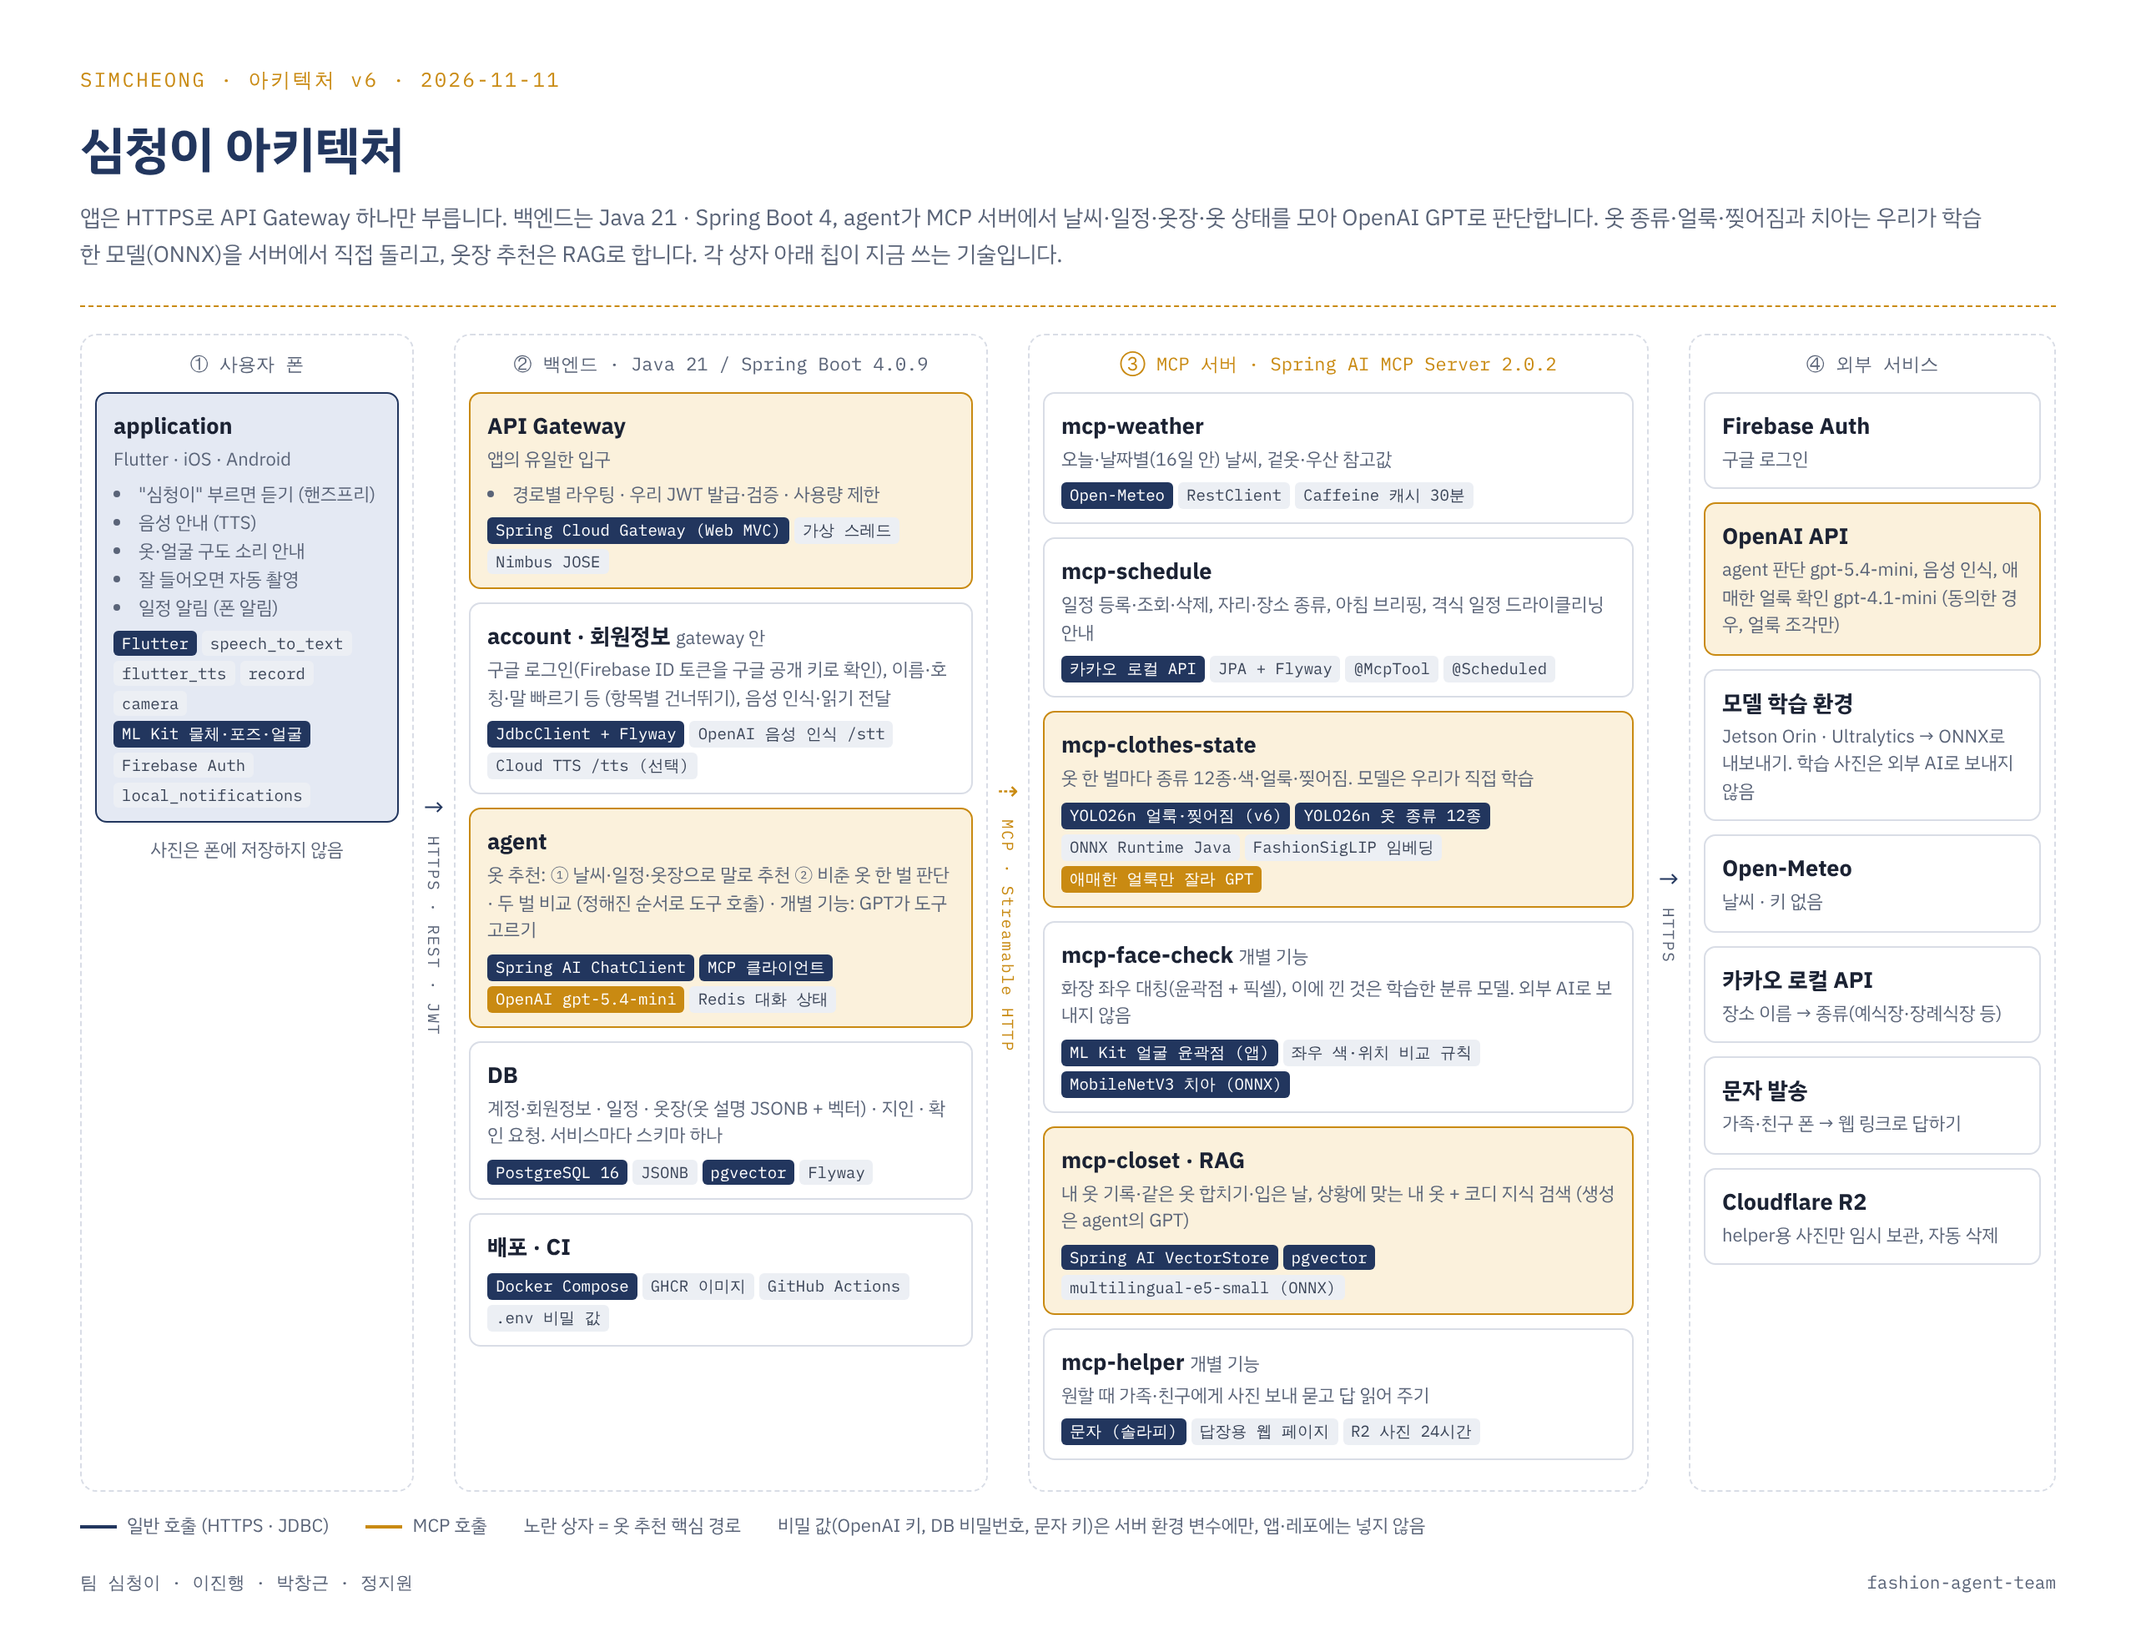
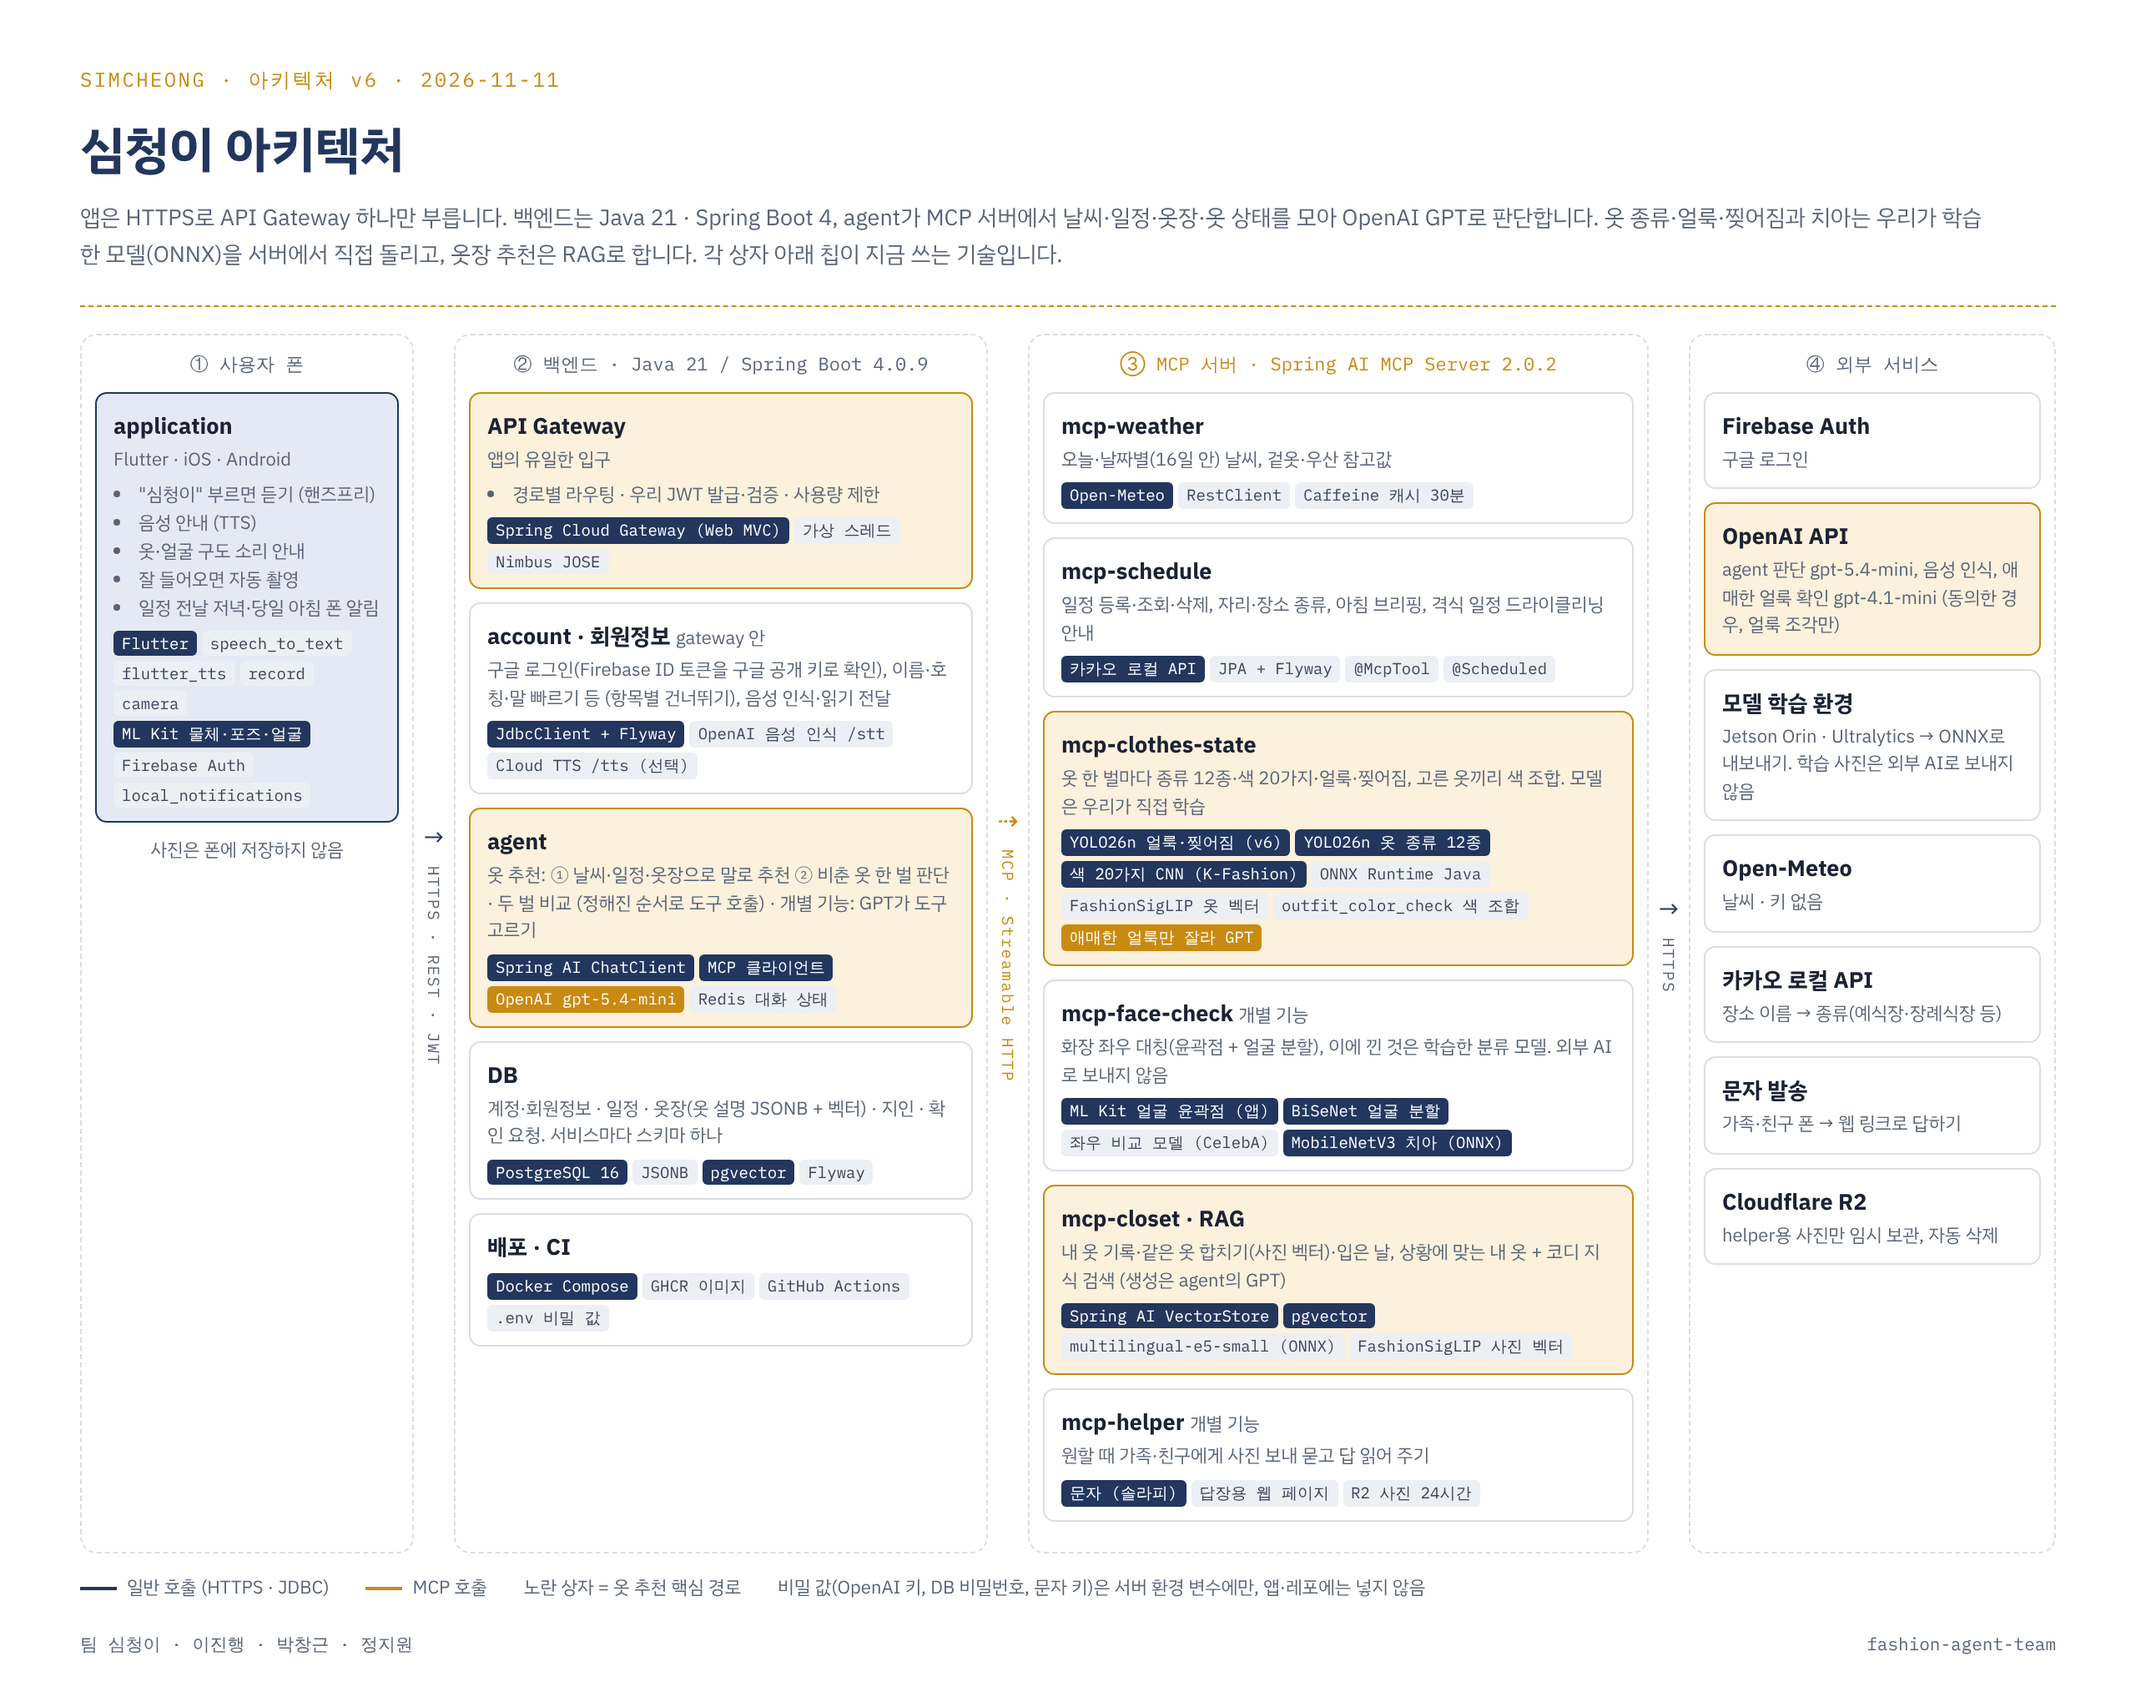
docs: 오늘 머지 반영, ERD 추가
색 모델·색 조합, 옷 사진 벡터, 얼굴 분할·좌우 비교 모델, 일정 폰 알림 반영, 테스트 수 다시 셈, ERD 그림 추가

Claude-Session: https://claude.ai/code/session_01AaHUvdPk9ZGhWgnso4sQo4

diff --git a/profile/README.md b/profile/README.md
@@ -25,12 +25,14 @@
 - 일정: 말로 넣은 일정마다 **자리 종류(면접·결혼식·운동 등)와 장소 종류**를 붙여 돌려줘요 (`schedule_list`). 장소는 카카오 로컬로 찾아요
 - 격식 있는 일정은 등록할 때와 3일 전 아침에 **드라이클리닝**을 미리 챙겨 줘요
 - 앱을 열면 오늘 일정과 3일 안의 중요한 일정을 먼저 알려 줘요 (`schedule_briefing`)
+- 일정 전날 저녁 8시에는 미리 옷을 골라 두라고, 당일 아침에는 다시 폰 알림을 띄워요
 
 ### 2. 카메라로 옷 확인
 
 꺼낸 옷을 비추면 사진마다 `clothes_inspect`가 **옷 한 벌마다 종류·색·얼룩·찢어짐**을 찾고, agent가 오늘 날씨와 자리에 맞는지 판단해요.
 
-- 옷 종류 12종과 얼룩·찢어짐은 **우리가 직접 학습한 YOLO 모델**(ONNX)로 서버에서 봐요
+- 옷 종류 12종과 얼룩·찢어짐은 **우리가 직접 학습한 YOLO 모델**, 옷 색 20가지는 K-Fashion으로 학습한 **작은 CNN**(ONNX)으로 서버에서 봐요
+- 고른 옷끼리 색이 어울리는지는 색 이론 규칙으로 따로 판단해요 (`outfit_color_check`)
 - 얼룩이 애매할 때만 (사용자가 동의한 경우) **얼룩 부분만 잘라** GPT에 한 번 더 물어봐요
 - 코트인지 재킷인지 애매하면 틀린 이름 대신 "겉옷"이라고 말해요
 - 두 벌을 나란히 비추면 "왼쪽 흰 셔츠가 더 나아요"처럼 비교해 줘요
@@ -40,6 +42,7 @@
 셀카로 **화장이 좌우 고르게 되었는지**(`face_makeup_check`), **이 사이에 뭐가 끼지 않았는지**(`teeth_check`) 확인해요.
 
 - 앱이 ML Kit로 얼굴을 실시간으로 잡아 구도를 안내하고, 멈춘 순간 여러 장을 보내 중간값으로 판단해요
+- 서버가 얼굴 분할 모델(BiSeNet ResNet34)로 눈썹·입술·볼 칸을 나누고, 눈썹 길이·두께와 입술 너비는 공개 얼굴 데이터(CelebA)로 학습한 **좌우 비교 모델**로 판단해요
 - 얼굴·치아 사진은 **GPT 같은 외부 AI로 보내지 않고** 서버의 자체 모델로만 봐요
 
 ### 4. 가족·친구에게 물어보기
@@ -48,7 +51,10 @@
 
 ### 5. 내 옷장 (RAG)
 
-확인한 옷과 입은 날을 기록하고(`closet_save`, `closet_wear`), 다음 추천 때 상황에 맞는 내 옷을 찾아요(`closet_search`). "지난번 면접 때 뭐 입었지?"도 답해요(`closet_outfits`).
+확인한 옷과 입은 날을 기록하고(`closet_save`, `closet_wear`), 다음 추천 때 상황에 맞는 내 옷을 찾아요(`closet_search`). "지난번 면접 때 뭐 입었지?"(`closet_outfits`), "내 옷장에 뭐 있어?"(`closet_list`)에도 답해요.
+
+- 같은 옷인지는 `clothes_inspect`가 준 **옷 사진 벡터**(FashionSigLIP 768차원)로 판단해 한 벌로 합쳐요
+- 상황 문장(글 임베딩, multilingual-e5-small)과 영어 검색어(사진 벡터)로 내 옷과 코디 지식을 함께 찾고, 추천 문장은 agent의 GPT가 만들어요
 
 ---
 
@@ -60,7 +66,18 @@
 - 옷 추천은 정해진 순서(코드)로 도구를 부르고, GPT가 도구를 고르는 건 날씨 묻기·일정 등록·얼굴 확인·가족에게 묻기 같은 개별 기능뿐이에요
 - 서비스 사이 약속은 앱 레포의 [OpenAPI](https://github.com/fashion-agent-team/fashion-agent/blob/develop/docs/contracts/openapi.yaml)와 [MCP 도구 입출력](https://github.com/fashion-agent-team/fashion-agent/blob/develop/docs/contracts/mcp-tools.md) 하나로 맞춰요
 
-## 🗂 레포지토리
+## 🗂 ERD
+
+> 각 서비스 레포의 Flyway 마이그레이션(2026-11-11 `develop`) 그대로예요. 스키마 4개, 표 10개.
+
+<p align="center"><img src="https://raw.githubusercontent.com/fashion-agent-team/.github/main/profile/images/erd.png" width="100%" alt="심청이 ERD: account, schedule, helper, closet 스키마"/></p>
+
+- **서비스마다 스키마 하나**: account(gateway) · schedule · closet · helper. 스키마끼리는 FK 없이 `user_id`(= JWT sub) 값만 같이 써요
+- **사진은 어느 표에도 없어요.** 옷은 설명(JSONB)과 벡터만 남기고, 가족에게 보낸 사진은 R2 키만 24시간 들고 있어요
+- 남의 옷에 내 입은 날이 붙지 않게 `wears`는 (옷, 주인)을 함께 참조해요
+- 옷 벡터는 한 사람의 옷(100벌 안팎)만 정확한 거리로 훑고, 공용 코디 지식(`style_docs`)만 HNSW 인덱스를 써요
+
+## 📦 레포지토리
 
 | 레포 | 역할 | 주요 기술 |
 | --- | --- | --- |
@@ -69,9 +86,9 @@
 | [fashion-agent-agent](https://github.com/fashion-agent-team/fashion-agent-agent) | 대화와 옷 추천을 이끄는 두뇌 | Spring AI(ChatClient + MCP 클라이언트), OpenAI GPT, Redis |
 | [mcp-weather](https://github.com/fashion-agent-team/mcp-weather) | 오늘·날짜별 날씨 | Spring AI MCP Server, Open-Meteo, Caffeine 캐시 |
 | [mcp-schedule](https://github.com/fashion-agent-team/mcp-schedule) | 일정, 자리·장소 종류, 드라이클리닝 안내, 아침 브리핑 | Spring AI MCP Server(`@McpTool`), Spring Data JPA + Flyway, 카카오 로컬 API |
-| [mcp-clothes-state](https://github.com/fashion-agent-team/mcp-clothes-state) | 옷 종류·색·얼룩·찢어짐 | 직접 학습한 YOLO26n, ONNX Runtime, (선택) GPT 얼룩 확인 |
-| [mcp-face-check](https://github.com/fashion-agent-team/mcp-face-check) | 화장 대칭, 치아 확인 | ML Kit 윤곽점, MobileNetV3 분류 모델(ONNX) |
-| [mcp-closet](https://github.com/fashion-agent-team/mcp-closet) | 내 옷장 기록과 검색(RAG) | Spring AI VectorStore, pgvector, multilingual-e5-small |
+| [mcp-clothes-state](https://github.com/fashion-agent-team/mcp-clothes-state) | 옷 종류·색·얼룩·찢어짐, 색 조합 | 직접 학습한 YOLO26n·색 CNN, ONNX Runtime, FashionSigLIP 옷 벡터, (선택) GPT 얼룩 확인 |
+| [mcp-face-check](https://github.com/fashion-agent-team/mcp-face-check) | 화장 대칭, 치아 확인 | ML Kit 윤곽점, BiSeNet 얼굴 분할, 좌우 비교 모델, MobileNetV3 치아 분류(ONNX) |
+| [mcp-closet](https://github.com/fashion-agent-team/mcp-closet) | 내 옷장 기록과 검색(RAG) | Spring AI VectorStore, pgvector, multilingual-e5-small, FashionSigLIP 사진 벡터 |
 | [mcp-helper](https://github.com/fashion-agent-team/mcp-helper) | 가족·친구에게 확인 요청 | 문자 링크, 답장 웹 페이지, Cloudflare R2(사진 24시간) |
 
 ---
@@ -94,10 +111,13 @@
 | 모델 | 쓰는 곳 | 결과 (학습에 안 쓴 사진) |
 | --- | --- | --- |
 | 얼룩·찢어짐 `yolo26n_v6` | mcp-clothes-state | 사진 단위 정답률 91.9% (346장), 애매한 것만 GPT 확인 시 98.1% (314장). 깨끗한 옷 200장 중 오탐 1장 |
-| 옷 종류 12종 `yolo26n_fashion12` | mcp-clothes-state | 내려놓은 옷 203장 종류 86.7% (큰 분류 91.6%), 바닥 신발 mAP50 0.991 |
+| 옷 종류 12종 `yolo26n_fashion12` (fashion12e) | mcp-clothes-state | 내려놓은 옷 203장 종류 86.7% (큰 분류 91.6%), 바닥 신발 mAP50 0.991 |
+| 옷 색 20가지 `color20_cnn` | mcp-clothes-state | 시험 옷 25,626벌 색 계열 76.8% (예전 픽셀 규칙 45.3%), 흰 옷 87% (예전 15%) |
+| 화장 좌우 비교 (눈썹 길이·두께, 입술 너비) | mcp-face-check | CelebA에서 비대칭 찾는 비율 눈썹 길이 22→84%, 두께 51→92%, 입술 너비 20→82% |
 | 치아 분류 MobileNetV3-Small | mcp-face-check | 합성 데이터로 학습, 실제 사진 평가 진행 중 |
 
-- 학습은 팀 **Jetson Orin**에서 했고, 학습 사진은 외부 AI로 보내지 않았어요
+- 학습은 우리 장비(팀 **Jetson Orin**·맥북)에서 했고, 학습 사진은 외부 AI로 보내지 않았어요
+- 데이터 출처와 라이선스(AI Hub K-Fashion, CelebA, FFHQ 등)는 각 레포 README에 적어 두었어요. 학습 사진은 레포에 올리지 않아요
 - 실험 과정과 비교표는 [clothes-state 학습 기록](https://github.com/fashion-agent-team/mcp-clothes-state/blob/develop/docs/training-log.md)에 있어요
 
 ## 🔒 개인정보 원칙
@@ -125,15 +145,15 @@
 | 레포 | 테스트 |
 | --- | ---: |
 | fashion-agent (앱) | 195 |
-| fashion-agent-agent | 71 |
-| mcp-face-check | 58 |
-| mcp-clothes-state | 53 |
-| mcp-closet | 28 |
+| fashion-agent-agent | 73 |
+| mcp-clothes-state | 75 |
+| mcp-face-check | 62 |
+| mcp-closet | 41 |
 | mcp-schedule | 28 |
 | mcp-weather | 25 |
 | fashion-agent-gateway | 20 |
 | mcp-helper | 20 |
-| **합계** | **498** |
+| **합계** | **539** |
 
 ---
 
